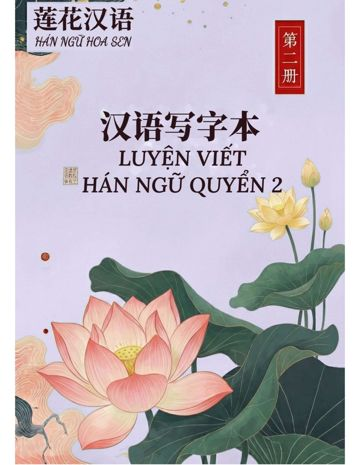
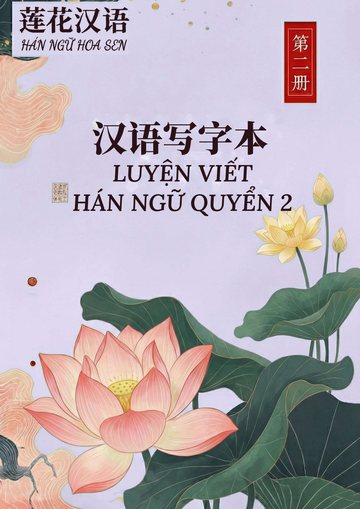
feat(landing): realistic lotus stamens, exact Google Maps link, borderless writing-book covers, worksheet preview modal

diff --git a/src/landing/Lotus.tsx b/src/landing/Lotus.tsx
@@ -1,13 +1,69 @@
 import {motion} from 'motion/react';
 
-const PETAL = 'M0 0 C-36 -34 -40 -108 0 -156 C40 -108 36 -34 0 0Z';
+const PETAL = 'M0 0 C-30 -30 -46 -98 -4 -158 Q0 -162 4 -158 C46 -98 30 -30 0 0Z';
+const VEIN = 'M0 -8 C-5 -55 -7 -105 -2 -148 M0 -8 C-16 -50 -24 -95 -10 -138 M0 -8 C16 -50 24 -95 10 -138';
 
-const LAYERS: {angles: number[]; scale: number; fill: string; delay: number}[] = [
-  {angles: [-74, -46, 46, 74], scale: 0.86, fill: 'url(#petalBack)', delay: 0},
-  {angles: [-58, -30, 0, 30, 58], scale: 0.98, fill: 'url(#petalMid)', delay: 0.25},
-  {angles: [-38, -13, 13, 38], scale: 1.0, fill: 'url(#petalMid)', delay: 0.5},
-  {angles: [-20, 0, 20], scale: 0.9, fill: 'url(#petalFront)', delay: 0.75},
+type Layer = {angles: number[]; scale: number; fill: string; delay: number};
+// Cánh phía sau (vẽ trước), rồi nhụy, rồi cánh phía trước ôm lấy đài sen
+const BACK: Layer[] = [
+  {angles: [-80, -54, 54, 80], scale: 0.84, fill: 'url(#petalBack)', delay: 0},
+  {angles: [-62, -36, 0, 36, 62], scale: 0.98, fill: 'url(#petalMid)', delay: 0.25},
 ];
+const FRONT: Layer[] = [
+  {angles: [-50, -27, 27, 50], scale: 0.56, fill: 'url(#petalMid)', delay: 1.3},
+  {angles: [-15, 15], scale: 0.5, fill: 'url(#petalFront)', delay: 1.5},
+];
+
+const hash = (k: number) => {
+  const x = Math.sin(k * 12.9898 + 78.233) * 43758.5453;
+  return x - Math.floor(x);
+};
+
+/** Nhụy sen: đài sen (gương sen) màu xanh lục nhạt có lỗ hạt, bao quanh là nhiều tơ nhị vàng đầu có bao phấn. */
+function Stamens({detail = true}: {detail?: boolean}) {
+  const N = detail ? 46 : 30;
+  const filaments = Array.from({length: N}, (_, k) => {
+    const t = k / (N - 1);
+    const a = ((-84 + t * 168) * Math.PI) / 180; // 0 = hướng lên
+    const L = 8 + hash(k + 1) * 16;
+    const outer = k % 3 === 0;
+    const reach = (outer ? 40 : 30) + L;
+    const rise = (outer ? 34 : 26) + L * 0.9;
+    const x0 = Math.sin(a) * 13;
+    const y0 = -88;
+    const x1 = Math.sin(a) * reach;
+    const y1 = -92 - Math.cos(a) * rise;
+    const cx = Math.sin(a) * (reach * 0.55);
+    const cy = -90 - Math.cos(a) * (rise * 0.25);
+    return {x0, y0, x1, y1, cx, cy, deg: (a * 180) / Math.PI, outer, k};
+  });
+  return (
+    <g>
+      {filaments.map((f) => (
+        <g key={f.k}>
+          <path d={`M${f.x0.toFixed(1)} ${f.y0} Q${f.cx.toFixed(1)} ${f.cy.toFixed(1)} ${f.x1.toFixed(1)} ${f.y1.toFixed(1)}`} stroke={f.outer ? '#f4d874' : '#f1cd5c'} strokeWidth="1.4" fill="none" strokeLinecap="round" />
+          <ellipse cx={f.x1.toFixed(1)} cy={f.y1.toFixed(1)} rx="2" ry="4.4" transform={`rotate(${f.deg.toFixed(1)} ${f.x1.toFixed(1)} ${f.y1.toFixed(1)})`} fill="#eeab00" stroke="#c98a00" strokeWidth="0.4" />
+        </g>
+      ))}
+      {/* đài sen */}
+      <path d="M-18 -100 C-17 -91 -10 -83 0 -78 C10 -83 17 -91 18 -100 Z" fill="url(#podGrad)" />
+      <ellipse cx="0" cy="-100" rx="18.5" ry="6.6" fill="#c7d96a" stroke="#93a93a" strokeWidth="0.8" />
+      {detail &&
+        [[-10, -100], [0, -98.4], [10, -100], [-5, -102.4], [5, -102.4], [0, -101.4], [-13, -101], [13, -101]].map(([x, y], i) => (
+          <ellipse key={i} cx={x} cy={y} rx="2.1" ry="1" fill="#6f8a26" opacity="0.85" />
+        ))}
+    </g>
+  );
+}
+
+function PetalShape({a, layer, detail}: {a: number; layer: Layer; detail: boolean}) {
+  return (
+    <g transform={`rotate(${a}) scale(${layer.scale})`}>
+      <path d={PETAL} fill={layer.fill} stroke="rgba(255,255,255,0.5)" strokeWidth="1.2" />
+      {detail && <path d={VEIN} fill="none" stroke="rgba(214,110,150,0.28)" strokeWidth="0.9" />}
+    </g>
+  );
+}
 
 /** Gradient dùng chung: đặt đúng 1 lần ở gốc trang (giảm hàng trăm bản sao trong DOM). */
 export function GlobalDefs() {
@@ -28,6 +84,10 @@ export function GlobalDefs() {
         <stop offset="0.6" stopColor="#ffe6ee" />
         <stop offset="1" stopColor="#ffb3ca" />
       </linearGradient>
+      <linearGradient id="podGrad" x1="0" y1="0" x2="0" y2="1">
+        <stop offset="0" stopColor="#b9cb55" />
+        <stop offset="1" stopColor="#7d9630" />
+      </linearGradient>
       <radialGradient id="padGrad" cx="0.45" cy="0.4" r="0.7">
         <stop offset="0" stopColor="#58c27f" />
         <stop offset="1" stopColor="#1d7a52" />
@@ -43,38 +103,29 @@ export function GlobalDefs() {
 
 /** Hoa sen nở ra khi tải trang. */
 export function LotusBloom({className}: {className?: string}) {
+  const grow = (layer: Layer) =>
+    layer.angles.map((a, i) => (
+      <g key={`${layer.delay}-${i}`} transform={`rotate(${a})`}>
+        <motion.g
+          style={{originX: 0.5, originY: 1}}
+          initial={{scale: 0.05, opacity: 0}}
+          animate={{scale: layer.scale, opacity: 1}}
+          transition={{duration: 1.6, delay: 0.3 + layer.delay + i * 0.05, ease: [0.2, 0.8, 0.2, 1]}}
+        >
+          <path d={PETAL} fill={layer.fill} stroke="rgba(255,255,255,0.5)" strokeWidth="1.2" />
+          <path d={VEIN} fill="none" stroke="rgba(214,110,150,0.28)" strokeWidth="0.9" />
+        </motion.g>
+      </g>
+    ));
   return (
     <svg viewBox="0 0 400 300" className={className} role="img" aria-label="Hoa sen">
       <ellipse cx="200" cy="268" rx="150" ry="16" fill="rgba(0,50,60,0.25)" />
       <g transform="translate(200 262)">
-        {LAYERS.map((layer, li) =>
-          layer.angles.map((a, i) => (
-            <g key={`${li}-${i}`} transform={`rotate(${a})`}>
-              <motion.path
-                d={PETAL}
-                fill={layer.fill}
-                stroke="rgba(255,255,255,0.55)"
-                strokeWidth="1.2"
-                style={{originX: 0, originY: 0}}
-                initial={{scale: 0.05, opacity: 0}}
-                animate={{scale: layer.scale, opacity: 1}}
-                transition={{duration: 1.6, delay: 0.3 + layer.delay + i * 0.05, ease: [0.2, 0.8, 0.2, 1]}}
-              />
-            </g>
-          ))
-        )}
-        <motion.g
-          initial={{opacity: 0, scale: 0.3}}
-          animate={{opacity: 1, scale: 1}}
-          transition={{delay: 1.8, duration: 0.8}}
-          style={{originX: 0, originY: 0}}
-        >
-          <circle cx="0" cy="-38" r="22" fill="#ffd45a" />
-          {Array.from({length: 14}, (_, i) => {
-            const a = (i / 14) * Math.PI - Math.PI;
-            return <circle key={i} cx={Math.cos(a) * 26} cy={-38 + Math.sin(a) * 20} r="3.4" fill="#f3a712" />;
-          })}
+        {BACK.map(grow)}
+        <motion.g initial={{opacity: 0, scale: 0.3}} animate={{opacity: 1, scale: 1}} transition={{delay: 1.1, duration: 1}} style={{originX: 0.5, originY: 1}}>
+          <Stamens />
         </motion.g>
+        {FRONT.map(grow)}
       </g>
     </svg>
   );
@@ -85,14 +136,9 @@ export function LotusStatic() {
   return (
     <svg viewBox="0 0 400 300" aria-hidden="true">
       <g transform="translate(200 262)">
-        {LAYERS.map((layer, li) =>
-          layer.angles.map((a, i) => (
-            <g key={`${li}-${i}`} transform={`rotate(${a}) scale(${layer.scale})`}>
-              <path d={PETAL} fill={layer.fill} stroke="rgba(255,255,255,0.5)" strokeWidth="1.4" />
-            </g>
-          ))
-        )}
-        <circle cx="0" cy="-38" r="22" fill="#ffd45a" />
+        {BACK.map((layer, li) => layer.angles.map((a, i) => <PetalShape key={`b${li}-${i}`} a={a} layer={layer} detail={false} />))}
+        <Stamens detail={false} />
+        {FRONT.map((layer, li) => layer.angles.map((a, i) => <PetalShape key={`f${li}-${i}`} a={a} layer={layer} detail={false} />))}
       </g>
     </svg>
   );

diff --git a/src/landing/Landing.tsx b/src/landing/Landing.tsx
@@ -10,20 +10,20 @@ import './landing.css';
 const PHONE = '0813 616 813';
 const PHONE_LINK = 'tel:0813616813';
 const ZALO = 'https://zalo.me/0813616813';
-const MAP = 'https://www.google.com/maps/search/?api=1&query=' + encodeURIComponent('Hán Ngữ Hoa Sen, 98 Đường Hòa Hội, Trảng Bàng, Tây Ninh');
+const MAP = 'https://maps.app.goo.gl/PHGiKLxR9jUxzKBu9';
 const ADDRESS = '98 Đường Hòa Hội, Trảng Bàng, Tây Ninh (gần nhà thờ Tha La)';
 
 const small = (u: string) => u.replace('.jpg', '_s.jpg');
 const thumb = (u: string) => u.replace('/p', '/t');
 
-type Book = {id: string; img: string; ratio: number; title: string; vol: string; kind: 'gt' | 'lv'; desc: string};
+type Book = {id: string; img: string; ratio: number; title: string; vol: string; kind: 'gt' | 'lv'; desc: string; sample?: string};
 const BOOKS: Book[] = [
   {id: 'gt1', img: '/site/giaotrinh1.jpg', ratio: 1400 / 2355, title: 'Giáo trình Hán ngữ', vol: 'Quyển 1', kind: 'gt', desc: 'Giáo trình nền tảng cho người mới bắt đầu: phát âm, từ vựng, hội thoại và ngữ pháp cơ bản.'},
   {id: 'gt2', img: '/site/giaotrinh2.jpg', ratio: 0.594, title: 'Giáo trình Hán ngữ', vol: 'Quyển 2', kind: 'gt', desc: 'Tiếp nối quyển 1, mở rộng vốn từ và mẫu câu giao tiếp trong đời sống, công việc.'},
   {id: 'gt3', img: '/site/giaotrinh3.jpg', ratio: 0.594, title: 'Giáo trình Hán ngữ', vol: 'Quyển 3', kind: 'gt', desc: 'Nâng cao khả năng nghe – nói – đọc – viết với các chủ đề thực tế.'},
-  {id: 'lv1', img: '/site/luyenviet1.jpg', ratio: 0.773, title: 'Luyện viết Hán ngữ', vol: 'Quyển 1', kind: 'lv', desc: 'Vở luyện viết chữ Hán đi cùng giáo trình quyển 1.'},
-  {id: 'lv2', img: '/site/luyenviet2.jpg', ratio: 0.773, title: 'Luyện viết Hán ngữ', vol: 'Quyển 2', kind: 'lv', desc: 'Vở luyện viết chữ Hán đi cùng giáo trình quyển 2.'},
-  {id: 'lv3', img: '/site/luyenviet3.jpg', ratio: 0.773, title: 'Luyện viết Hán ngữ', vol: 'Quyển 3', kind: 'lv', desc: 'Vở luyện viết chữ Hán đi cùng giáo trình quyển 3.'},
+  {id: 'lv1', img: '/site/luyenviet1.jpg', ratio: 0.708, sample: '/site/vo1.jpg', title: 'Luyện viết Hán ngữ', vol: 'Quyển 1', kind: 'lv', desc: 'Vở luyện viết chữ Hán đi cùng giáo trình quyển 1: mỗi chữ có phiên âm, nghĩa, chữ mẫu, chữ mờ để tô theo và ô trống để tự viết.'},
+  {id: 'lv2', img: '/site/luyenviet2.jpg', ratio: 0.708, sample: '/site/vo2.jpg', title: 'Luyện viết Hán ngữ', vol: 'Quyển 2', kind: 'lv', desc: 'Vở luyện viết chữ Hán đi cùng giáo trình quyển 2: mỗi chữ có phiên âm, nghĩa, chữ mẫu, chữ mờ để tô theo và ô trống để tự viết.'},
+  {id: 'lv3', img: '/site/luyenviet3.jpg', ratio: 0.708, sample: '/site/vo3.jpg', title: 'Luyện viết Hán ngữ', vol: 'Quyển 3', kind: 'lv', desc: 'Vở luyện viết chữ Hán đi cùng giáo trình quyển 3: mỗi chữ có phiên âm, nghĩa, chữ mẫu, chữ mờ để tô theo và ô trống để tự viết.'},
 ];
 
 const PHOTOS = [
@@ -327,9 +327,9 @@ function BookModal({open, setOpen}: {open: Book | null; setOpen: (b: Book | null
   return (
       <Lightbox open={!!open} onClose={() => setOpen(null)}>
         {open && (
-          <div className="bookmodal">
-            <img src={LITE ? small(open.img) : open.img} alt={`${open.title} ${open.vol}`} />
-            <div>
+          <div className={'bookmodal' + (open.sample ? ' has-sample' : '')}>
+            <img className="bm-cover" src={LITE ? small(open.img) : open.img} alt={`${open.title} ${open.vol}`} />
+            <div className="bm-body">
               <span className="kicker">{open.kind === 'gt' ? 'Giáo trình' : 'Vở luyện viết'}</span>
               <h3>
                 {open.title} <em>{open.vol}</em>
@@ -345,6 +345,14 @@ function BookModal({open, setOpen}: {open: Book | null; setOpen: (b: Book | null
                 </a>
               )}
             </div>
+            {open.sample && (
+              <div className="bm-sample">
+                <div className="bm-sample-cap">Trang mẫu trong vở · cuộn để xem</div>
+                <div className="bm-sample-scroll">
+                  <img src={LITE ? open.sample.replace('.jpg', '_s.jpg') : open.sample} alt={`Trang luyện viết mẫu ${open.vol}`} loading="lazy" />
+                </div>
+              </div>
+            )}
           </div>
         )}
     </Lightbox>

diff --git a/src/landing/landing.css b/src/landing/landing.css
@@ -1274,3 +1274,53 @@ html.intro-sky .scene {
     height: 26px;
   }
 }
+
+/* Cửa sổ vở luyện viết: bìa + trang mẫu */
+.lightbox-in:has(.has-sample) {
+  max-width: min(1100px, 100%);
+}
+.bookmodal.has-sample {
+  grid-template-columns: 200px 1fr minmax(300px, 46%);
+  align-items: start;
+  gap: 26px;
+}
+.bookmodal.has-sample .bm-cover {
+  max-width: 200px;
+}
+.bm-sample {
+  min-width: 0;
+}
+.bm-sample-cap {
+  font-size: 0.78rem;
+  letter-spacing: 0.08em;
+  color: var(--soft);
+  margin-bottom: 8px;
+}
+.bm-sample-scroll {
+  max-height: min(66svh, 640px);
+  overflow-y: auto;
+  border-radius: 12px;
+  background: #fff;
+  box-shadow: 0 18px 40px rgba(0, 0, 0, 0.45);
+  -webkit-overflow-scrolling: touch;
+}
+.bm-sample-scroll img {
+  display: block;
+  width: 100%;
+  height: auto;
+}
+@media (max-width: 900px) {
+  .bookmodal.has-sample {
+    grid-template-columns: 1fr;
+    justify-items: center;
+  }
+  .bookmodal.has-sample .bm-cover {
+    max-width: 150px;
+  }
+  .bookmodal.has-sample .bm-sample {
+    width: 100%;
+  }
+  .bm-sample-scroll {
+    max-height: 52svh;
+  }
+}
